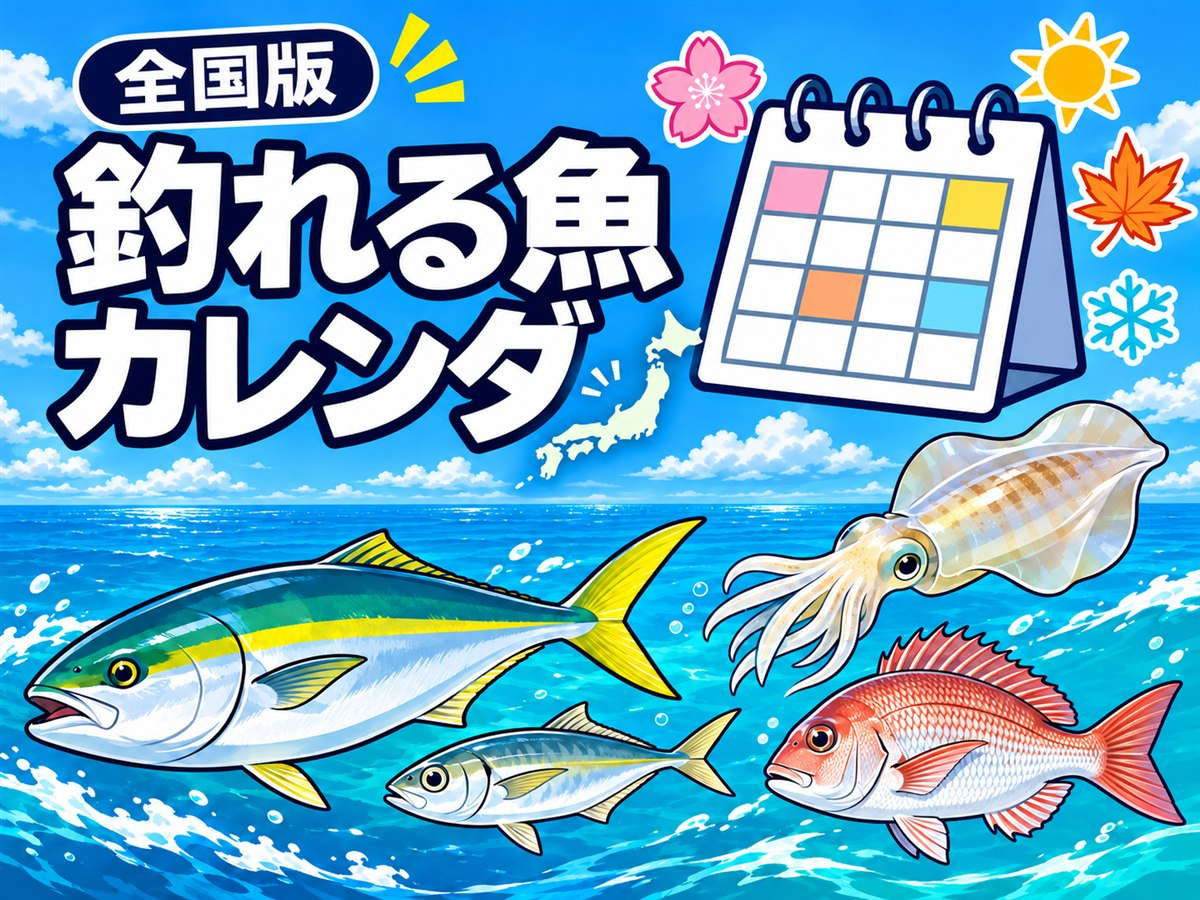
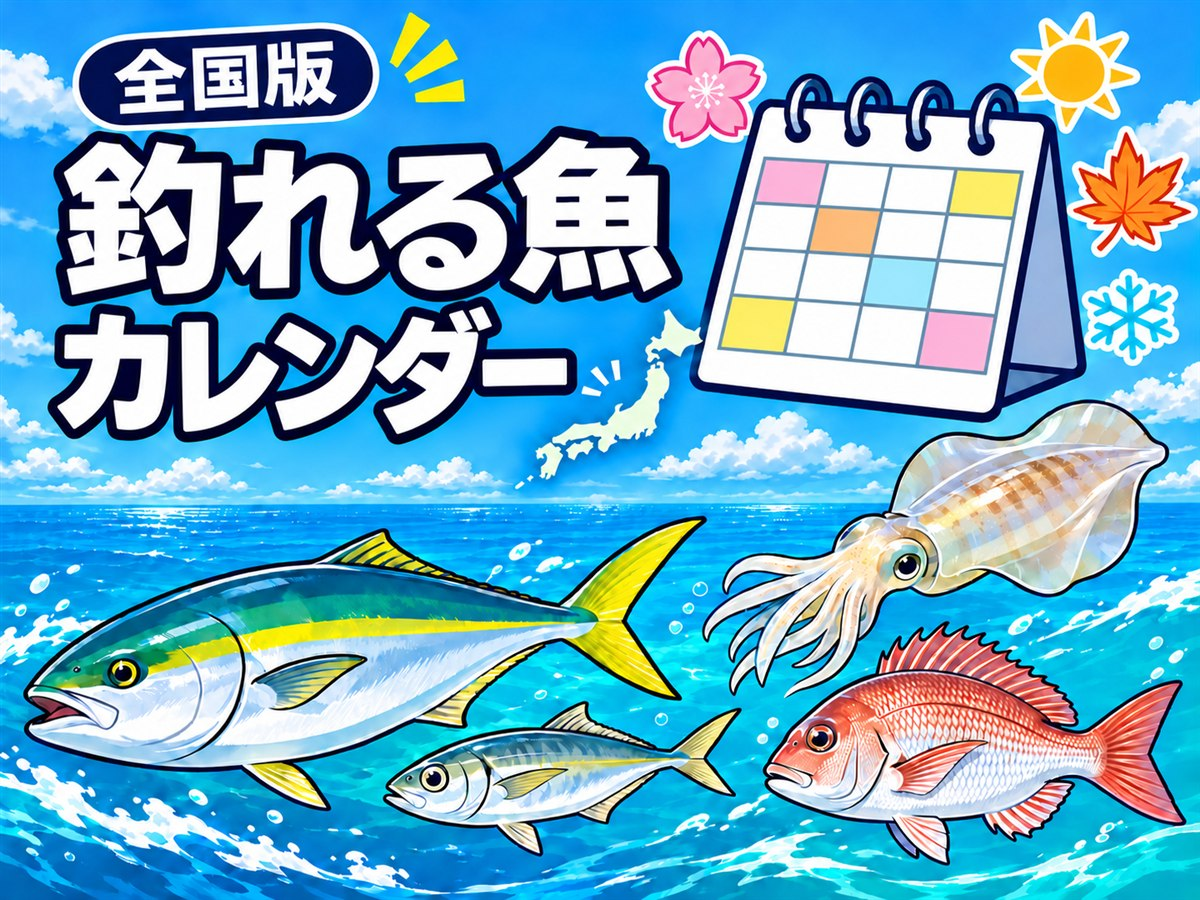
ランカーサイズの記事にJGFA日本記録（重さ）を追加、リリースサイズの記事にサムネイル、全国版カレンダーのサムネイルを差し替え

diff --git a/article/lunker-size.html b/article/lunker-size.html
@@ -42,7 +42,7 @@
     "author": {"@type": "Person", "name": "こすけ", "url": "https://tsuri-boon.github.io/tsuri-boon.html"},
     "publisher": {"@type": "Organization", "name": "tsuri-boon", "logo": {"@type": "ImageObject", "url": "https://tsuri-boon.github.io/image/tsuriboon_favicon.png"}},
     "datePublished": "2026-11-08",
-    "dateModified": "2026-11-08",
+    "dateModified": "2026-11-09",
     "articleSection": "釣りガイド",
     "keywords": ["ランカーサイズ", "ランカー", "尺メバル", "座布団ヒラメ", "年無し", "キロアップ", "尺アジ", "ドラゴン", "最大サイズ", "出世魚"]
   }
@@ -93,7 +93,7 @@
 
 <main class="article-main">
   <!-- パンくず start --><nav class="breadcrumb" aria-label="パンくずリスト"><ol><li><a href="../index.html">トップ</a></li><li><a href="../sitemap.html">記事一覧</a></li><li aria-current="page">魚ごとのランカーサイズの目安まとめ</li></ol></nav><!-- パンくず end -->
-  <!-- 更新日 start --><div class="article-meta"><div class="pr-note">※当サイトはアフィリエイト広告を利用しています</div><p class="article-date">更新日：2026年11月8日</p></div><!-- 更新日 end -->
+  <!-- 更新日 start --><div class="article-meta"><div class="pr-note">※当サイトはアフィリエイト広告を利用しています</div><p class="article-date">更新日：2026年11月9日</p></div><!-- 更新日 end -->
 
   <article class="lure-article">
     <h1>魚ごとのランカーサイズの目安まとめ<br>尺メバル・座布団ヒラメ・年無しチヌは何cmから？</h1>
@@ -123,13 +123,14 @@
       全国の一般的な目安です。呼び名やサイズの基準は、地域や釣り人によって少しずつ違います。表は横にスクロールでき、魚の名前を押すとその魚の解説に移動します。
     </p>
     <div style="overflow-x:auto;margin:1em 0;">
-    <table style="min-width:640px;width:100%;border-collapse:collapse;font-size:0.82em;">
+    <table style="min-width:760px;width:100%;border-collapse:collapse;font-size:0.82em;">
       <thead>
         <tr style="background:#1a4a7a;color:#fff;">
           <th style="padding:8px;border:1px solid #ccd;position:sticky;left:0;background:#1a4a7a;">魚</th>
           <th style="padding:8px;border:1px solid #ccd;">よく釣れるサイズ</th>
           <th style="padding:8px;border:1px solid #ccd;">大物の呼び名とサイズ</th>
           <th style="padding:8px;border:1px solid #ccd;">最大サイズの目安</th>
+          <th style="padding:8px;border:1px solid #ccd;">JGFA日本記録（重さ）</th>
         </tr>
       </thead>
       <tbody>
@@ -138,88 +139,105 @@
           <td style="padding:8px;border:1px solid #ccd;">40〜60cm</td>
           <td style="padding:8px;border:1px solid #ccd;"><strong>ランカー：80cm以上</strong></td>
           <td style="padding:8px;border:1px solid #ccd;">1m超</td>
+          <td style="padding:8px;border:1px solid #ccd;">13.14kg（2006年・大分県堅田川）</td>
         </tr>
         <tr style="background:#f5f8ff;">
           <td style="padding:8px;border:1px solid #ccd;font-weight:bold;white-space:nowrap;position:sticky;left:0;background:#f5f8ff;"><a href="#aomono">ブリ（青物）</a></td>
           <td style="padding:8px;border:1px solid #ccd;">40〜70cm</td>
           <td style="padding:8px;border:1px solid #ccd;"><strong>ブリ：80cm以上（関西ではメジロの次）</strong></td>
           <td style="padding:8px;border:1px solid #ccd;">1m超</td>
+          <td style="padding:8px;border:1px solid #ccd;">22.10kg（2005年・三重県石鏡沖）</td>
         </tr>
         <tr>
           <td style="padding:8px;border:1px solid #ccd;font-weight:bold;white-space:nowrap;position:sticky;left:0;background:#fff;"><a href="#sawara">サワラ</a></td>
           <td style="padding:8px;border:1px solid #ccd;">50〜80cm</td>
           <td style="padding:8px;border:1px solid #ccd;"><strong>メーターサワラ：1m以上</strong></td>
           <td style="padding:8px;border:1px solid #ccd;">1m超</td>
+          <td style="padding:8px;border:1px solid #ccd;">10.57kg（2015年・長崎県五島列島）</td>
         </tr>
         <tr style="background:#f5f8ff;">
           <td style="padding:8px;border:1px solid #ccd;font-weight:bold;white-space:nowrap;position:sticky;left:0;background:#f5f8ff;"><a href="#tachiuo">タチウオ</a></td>
           <td style="padding:8px;border:1px solid #ccd;">指3本（幅約3cm）</td>
           <td style="padding:8px;border:1px solid #ccd;"><strong>ドラゴン：指5本以上</strong></td>
           <td style="padding:8px;border:1px solid #ccd;">1.5m前後</td>
+          <td style="padding:8px;border:1px solid #ccd;">5.13kg（2020年・鹿児島県鹿屋高須沖）</td>
         </tr>
         <tr>
           <td style="padding:8px;border:1px solid #ccd;font-weight:bold;white-space:nowrap;position:sticky;left:0;background:#fff;"><a href="#aori">アオリイカ</a></td>
           <td style="padding:8px;border:1px solid #ccd;">秋：200〜500g</td>
           <td style="padding:8px;border:1px solid #ccd;"><strong>キロアップ：1kg以上</strong></td>
           <td style="padding:8px;border:1px solid #ccd;">3kg超</td>
+          <td style="padding:8px;border:1px solid #ccd;">登録なし</td>
         </tr>
         <tr style="background:#f5f8ff;">
           <td style="padding:8px;border:1px solid #ccd;font-weight:bold;white-space:nowrap;position:sticky;left:0;background:#f5f8ff;"><a href="#hirame">ヒラメ</a></td>
           <td style="padding:8px;border:1px solid #ccd;">40〜60cm</td>
           <td style="padding:8px;border:1px solid #ccd;"><strong>座布団ヒラメ：70cm以上</strong></td>
           <td style="padding:8px;border:1px solid #ccd;">1m前後</td>
+          <td style="padding:8px;border:1px solid #ccd;">14.50kg（2008年・島根県隠岐郡西ノ島町）</td>
         </tr>
         <tr>
           <td style="padding:8px;border:1px solid #ccd;font-weight:bold;white-space:nowrap;position:sticky;left:0;background:#fff;"><a href="#magochi">マゴチ</a></td>
           <td style="padding:8px;border:1px solid #ccd;">40〜50cm</td>
           <td style="padding:8px;border:1px solid #ccd;"><strong>ランカー：60cm以上</strong></td>
           <td style="padding:8px;border:1px solid #ccd;">70cm超</td>
+          <td style="padding:8px;border:1px solid #ccd;">2.50kg（2009年・大分県大野川）</td>
         </tr>
         <tr style="background:#f5f8ff;">
           <td style="padding:8px;border:1px solid #ccd;font-weight:bold;white-space:nowrap;position:sticky;left:0;background:#f5f8ff;"><a href="#chinu">チヌ（クロダイ）</a></td>
           <td style="padding:8px;border:1px solid #ccd;">30〜45cm</td>
           <td style="padding:8px;border:1px solid #ccd;"><strong>年無し：50cm以上</strong></td>
           <td style="padding:8px;border:1px solid #ccd;">60cm超</td>
+          <td style="padding:8px;border:1px solid #ccd;">4.25kg（2010年・大阪府大阪湾南港南）</td>
         </tr>
         <tr>
           <td style="padding:8px;border:1px solid #ccd;font-weight:bold;white-space:nowrap;position:sticky;left:0;background:#fff;"><a href="#aji">アジ</a></td>
           <td style="padding:8px;border:1px solid #ccd;">15〜25cm</td>
           <td style="padding:8px;border:1px solid #ccd;"><strong>尺アジ：30cm以上（ギガアジ：40cm以上）</strong></td>
           <td style="padding:8px;border:1px solid #ccd;">50cm前後</td>
+          <td style="padding:8px;border:1px solid #ccd;">1.19kg（2010年・三重県古和浦沖）</td>
         </tr>
         <tr style="background:#f5f8ff;">
           <td style="padding:8px;border:1px solid #ccd;font-weight:bold;white-space:nowrap;position:sticky;left:0;background:#f5f8ff;"><a href="#mebaru">メバル</a></td>
           <td style="padding:8px;border:1px solid #ccd;">15〜20cm</td>
           <td style="padding:8px;border:1px solid #ccd;"><strong>尺メバル：30cm以上</strong></td>
           <td style="padding:8px;border:1px solid #ccd;">30cm台</td>
+          <td style="padding:8px;border:1px solid #ccd;">アカメバル1.12kg／シロメバル0.95kg／クロメバル0.80kg</td>
         </tr>
         <tr>
           <td style="padding:8px;border:1px solid #ccd;font-weight:bold;white-space:nowrap;position:sticky;left:0;background:#fff;"><a href="#gashira">ガシラ（カサゴ）</a></td>
           <td style="padding:8px;border:1px solid #ccd;">15〜20cm</td>
           <td style="padding:8px;border:1px solid #ccd;"><strong>大型：25cm以上</strong></td>
           <td style="padding:8px;border:1px solid #ccd;">30cm台</td>
+          <td style="padding:8px;border:1px solid #ccd;">0.77kg（2024年・長崎県五島列島防波堤）</td>
         </tr>
         <tr style="background:#f5f8ff;">
           <td style="padding:8px;border:1px solid #ccd;font-weight:bold;white-space:nowrap;position:sticky;left:0;background:#f5f8ff;"><a href="#akou">アコウ（キジハタ）</a></td>
           <td style="padding:8px;border:1px solid #ccd;">25〜35cm</td>
           <td style="padding:8px;border:1px solid #ccd;"><strong>大型：40cm以上</strong></td>
           <td style="padding:8px;border:1px solid #ccd;">60cm前後</td>
+          <td style="padding:8px;border:1px solid #ccd;">3.58kg（2020年・大分県佐賀ノ関沖）</td>
         </tr>
         <tr>
           <td style="padding:8px;border:1px solid #ccd;font-weight:bold;white-space:nowrap;position:sticky;left:0;background:#fff;"><a href="#tako">マダコ</a></td>
           <td style="padding:8px;border:1px solid #ccd;">300g〜1kg</td>
           <td style="padding:8px;border:1px solid #ccd;"><strong>大ダコ：2kg以上</strong></td>
           <td style="padding:8px;border:1px solid #ccd;">3kg超</td>
+          <td style="padding:8px;border:1px solid #ccd;">登録なし</td>
         </tr>
         <tr style="background:#f5f8ff;">
           <td style="padding:8px;border:1px solid #ccd;font-weight:bold;white-space:nowrap;position:sticky;left:0;background:#f5f8ff;"><a href="#madai">マダイ</a></td>
           <td style="padding:8px;border:1px solid #ccd;">30〜50cm</td>
           <td style="padding:8px;border:1px solid #ccd;"><strong>大ダイ：70cm以上（80cm以上は特大）</strong></td>
           <td style="padding:8px;border:1px solid #ccd;">1m超</td>
+          <td style="padding:8px;border:1px solid #ccd;">11.60kg（2020年・茨城県鹿島灘）</td>
         </tr>
       </tbody>
     </table>
     </div>
+    <p style="font-size:0.85em;">
+      JGFA日本記録は、<a href="https://www.jgfa.or.jp/record/alltackle/" target="_blank" rel="noopener">ジャパンゲームフィッシュ協会（JGFA）のオールタックル日本記録</a>（2026年10月認定分まで）です。JGFAの記録は重さで認定されるため、長さではなく重さを載せています。アオリイカとマダコは登録がありません。メバルは種類ごとに記録が分かれています。
+    </p>
 
     <h2 id="fish">魚ごとのランカーサイズ</h2>
     <h3 id="seabass">シーバス（スズキ）</h3>
@@ -228,6 +246,7 @@
         <tr><td style="padding:8px;border:1px solid #ccd;font-weight:bold;white-space:nowrap;">よく釣れるサイズ</td><td style="padding:8px;border:1px solid #ccd;">40〜60cm</td></tr>
         <tr style="background:#f5f8ff;"><td style="padding:8px;border:1px solid #ccd;font-weight:bold;white-space:nowrap;">大物の呼び名とサイズ</td><td style="padding:8px;border:1px solid #ccd;"><strong>ランカー：80cm以上</strong></td></tr>
         <tr><td style="padding:8px;border:1px solid #ccd;font-weight:bold;white-space:nowrap;">最大サイズの目安</td><td style="padding:8px;border:1px solid #ccd;">1m超</td></tr>
+        <tr style="background:#f5f8ff;"><td style="padding:8px;border:1px solid #ccd;font-weight:bold;white-space:nowrap;">JGFA日本記録（重さ）</td><td style="padding:8px;border:1px solid #ccd;">13.14kg（2006年・大分県堅田川）</td></tr>
       </tbody>
     </table>
     <p>
@@ -241,6 +260,7 @@
         <tr><td style="padding:8px;border:1px solid #ccd;font-weight:bold;white-space:nowrap;">よく釣れるサイズ</td><td style="padding:8px;border:1px solid #ccd;">40〜70cm</td></tr>
         <tr style="background:#f5f8ff;"><td style="padding:8px;border:1px solid #ccd;font-weight:bold;white-space:nowrap;">大物の呼び名とサイズ</td><td style="padding:8px;border:1px solid #ccd;"><strong>ブリ：80cm以上（関西ではメジロの次）</strong></td></tr>
         <tr><td style="padding:8px;border:1px solid #ccd;font-weight:bold;white-space:nowrap;">最大サイズの目安</td><td style="padding:8px;border:1px solid #ccd;">1m超</td></tr>
+        <tr style="background:#f5f8ff;"><td style="padding:8px;border:1px solid #ccd;font-weight:bold;white-space:nowrap;">JGFA日本記録（重さ）</td><td style="padding:8px;border:1px solid #ccd;">22.10kg（2005年・三重県石鏡沖）</td></tr>
       </tbody>
     </table>
     <p>
@@ -254,6 +274,7 @@
         <tr><td style="padding:8px;border:1px solid #ccd;font-weight:bold;white-space:nowrap;">よく釣れるサイズ</td><td style="padding:8px;border:1px solid #ccd;">50〜80cm</td></tr>
         <tr style="background:#f5f8ff;"><td style="padding:8px;border:1px solid #ccd;font-weight:bold;white-space:nowrap;">大物の呼び名とサイズ</td><td style="padding:8px;border:1px solid #ccd;"><strong>メーターサワラ：1m以上</strong></td></tr>
         <tr><td style="padding:8px;border:1px solid #ccd;font-weight:bold;white-space:nowrap;">最大サイズの目安</td><td style="padding:8px;border:1px solid #ccd;">1m超</td></tr>
+        <tr style="background:#f5f8ff;"><td style="padding:8px;border:1px solid #ccd;font-weight:bold;white-space:nowrap;">JGFA日本記録（重さ）</td><td style="padding:8px;border:1px solid #ccd;">10.57kg（2015年・長崎県五島列島）</td></tr>
       </tbody>
     </table>
     <p>
@@ -267,6 +288,7 @@
         <tr><td style="padding:8px;border:1px solid #ccd;font-weight:bold;white-space:nowrap;">よく釣れるサイズ</td><td style="padding:8px;border:1px solid #ccd;">指3本（幅約3cm）</td></tr>
         <tr style="background:#f5f8ff;"><td style="padding:8px;border:1px solid #ccd;font-weight:bold;white-space:nowrap;">大物の呼び名とサイズ</td><td style="padding:8px;border:1px solid #ccd;"><strong>ドラゴン：指5本以上</strong></td></tr>
         <tr><td style="padding:8px;border:1px solid #ccd;font-weight:bold;white-space:nowrap;">最大サイズの目安</td><td style="padding:8px;border:1px solid #ccd;">1.5m前後</td></tr>
+        <tr style="background:#f5f8ff;"><td style="padding:8px;border:1px solid #ccd;font-weight:bold;white-space:nowrap;">JGFA日本記録（重さ）</td><td style="padding:8px;border:1px solid #ccd;">5.13kg（2020年・鹿児島県鹿屋高須沖）</td></tr>
       </tbody>
     </table>
     <p>
@@ -280,6 +302,7 @@
         <tr><td style="padding:8px;border:1px solid #ccd;font-weight:bold;white-space:nowrap;">よく釣れるサイズ</td><td style="padding:8px;border:1px solid #ccd;">秋：200〜500g</td></tr>
         <tr style="background:#f5f8ff;"><td style="padding:8px;border:1px solid #ccd;font-weight:bold;white-space:nowrap;">大物の呼び名とサイズ</td><td style="padding:8px;border:1px solid #ccd;"><strong>キロアップ：1kg以上</strong></td></tr>
         <tr><td style="padding:8px;border:1px solid #ccd;font-weight:bold;white-space:nowrap;">最大サイズの目安</td><td style="padding:8px;border:1px solid #ccd;">3kg超</td></tr>
+        <tr style="background:#f5f8ff;"><td style="padding:8px;border:1px solid #ccd;font-weight:bold;white-space:nowrap;">JGFA日本記録（重さ）</td><td style="padding:8px;border:1px solid #ccd;">登録なし</td></tr>
       </tbody>
     </table>
     <p>
@@ -293,6 +316,7 @@
         <tr><td style="padding:8px;border:1px solid #ccd;font-weight:bold;white-space:nowrap;">よく釣れるサイズ</td><td style="padding:8px;border:1px solid #ccd;">40〜60cm</td></tr>
         <tr style="background:#f5f8ff;"><td style="padding:8px;border:1px solid #ccd;font-weight:bold;white-space:nowrap;">大物の呼び名とサイズ</td><td style="padding:8px;border:1px solid #ccd;"><strong>座布団ヒラメ：70cm以上</strong></td></tr>
         <tr><td style="padding:8px;border:1px solid #ccd;font-weight:bold;white-space:nowrap;">最大サイズの目安</td><td style="padding:8px;border:1px solid #ccd;">1m前後</td></tr>
+        <tr style="background:#f5f8ff;"><td style="padding:8px;border:1px solid #ccd;font-weight:bold;white-space:nowrap;">JGFA日本記録（重さ）</td><td style="padding:8px;border:1px solid #ccd;">14.50kg（2008年・島根県隠岐郡西ノ島町）</td></tr>
       </tbody>
     </table>
     <p>
@@ -306,6 +330,7 @@
         <tr><td style="padding:8px;border:1px solid #ccd;font-weight:bold;white-space:nowrap;">よく釣れるサイズ</td><td style="padding:8px;border:1px solid #ccd;">40〜50cm</td></tr>
         <tr style="background:#f5f8ff;"><td style="padding:8px;border:1px solid #ccd;font-weight:bold;white-space:nowrap;">大物の呼び名とサイズ</td><td style="padding:8px;border:1px solid #ccd;"><strong>ランカー：60cm以上</strong></td></tr>
         <tr><td style="padding:8px;border:1px solid #ccd;font-weight:bold;white-space:nowrap;">最大サイズの目安</td><td style="padding:8px;border:1px solid #ccd;">70cm超</td></tr>
+        <tr style="background:#f5f8ff;"><td style="padding:8px;border:1px solid #ccd;font-weight:bold;white-space:nowrap;">JGFA日本記録（重さ）</td><td style="padding:8px;border:1px solid #ccd;">2.50kg（2009年・大分県大野川）</td></tr>
       </tbody>
     </table>
     <p>
@@ -319,6 +344,7 @@
         <tr><td style="padding:8px;border:1px solid #ccd;font-weight:bold;white-space:nowrap;">よく釣れるサイズ</td><td style="padding:8px;border:1px solid #ccd;">30〜45cm</td></tr>
         <tr style="background:#f5f8ff;"><td style="padding:8px;border:1px solid #ccd;font-weight:bold;white-space:nowrap;">大物の呼び名とサイズ</td><td style="padding:8px;border:1px solid #ccd;"><strong>年無し：50cm以上</strong></td></tr>
         <tr><td style="padding:8px;border:1px solid #ccd;font-weight:bold;white-space:nowrap;">最大サイズの目安</td><td style="padding:8px;border:1px solid #ccd;">60cm超</td></tr>
+        <tr style="background:#f5f8ff;"><td style="padding:8px;border:1px solid #ccd;font-weight:bold;white-space:nowrap;">JGFA日本記録（重さ）</td><td style="padding:8px;border:1px solid #ccd;">4.25kg（2010年・大阪府大阪湾南港南）</td></tr>
       </tbody>
     </table>
     <p>
@@ -332,6 +358,7 @@
         <tr><td style="padding:8px;border:1px solid #ccd;font-weight:bold;white-space:nowrap;">よく釣れるサイズ</td><td style="padding:8px;border:1px solid #ccd;">15〜25cm</td></tr>
         <tr style="background:#f5f8ff;"><td style="padding:8px;border:1px solid #ccd;font-weight:bold;white-space:nowrap;">大物の呼び名とサイズ</td><td style="padding:8px;border:1px solid #ccd;"><strong>尺アジ：30cm以上（ギガアジ：40cm以上）</strong></td></tr>
         <tr><td style="padding:8px;border:1px solid #ccd;font-weight:bold;white-space:nowrap;">最大サイズの目安</td><td style="padding:8px;border:1px solid #ccd;">50cm前後</td></tr>
+        <tr style="background:#f5f8ff;"><td style="padding:8px;border:1px solid #ccd;font-weight:bold;white-space:nowrap;">JGFA日本記録（重さ）</td><td style="padding:8px;border:1px solid #ccd;">1.19kg（2010年・三重県古和浦沖）</td></tr>
       </tbody>
     </table>
     <p>
@@ -345,6 +372,7 @@
         <tr><td style="padding:8px;border:1px solid #ccd;font-weight:bold;white-space:nowrap;">よく釣れるサイズ</td><td style="padding:8px;border:1px solid #ccd;">15〜20cm</td></tr>
         <tr style="background:#f5f8ff;"><td style="padding:8px;border:1px solid #ccd;font-weight:bold;white-space:nowrap;">大物の呼び名とサイズ</td><td style="padding:8px;border:1px solid #ccd;"><strong>尺メバル：30cm以上</strong></td></tr>
         <tr><td style="padding:8px;border:1px solid #ccd;font-weight:bold;white-space:nowrap;">最大サイズの目安</td><td style="padding:8px;border:1px solid #ccd;">30cm台</td></tr>
+        <tr style="background:#f5f8ff;"><td style="padding:8px;border:1px solid #ccd;font-weight:bold;white-space:nowrap;">JGFA日本記録（重さ）</td><td style="padding:8px;border:1px solid #ccd;">アカメバル1.12kg／シロメバル0.95kg／クロメバル0.80kg</td></tr>
       </tbody>
     </table>
     <p>
@@ -358,6 +386,7 @@
         <tr><td style="padding:8px;border:1px solid #ccd;font-weight:bold;white-space:nowrap;">よく釣れるサイズ</td><td style="padding:8px;border:1px solid #ccd;">15〜20cm</td></tr>
         <tr style="background:#f5f8ff;"><td style="padding:8px;border:1px solid #ccd;font-weight:bold;white-space:nowrap;">大物の呼び名とサイズ</td><td style="padding:8px;border:1px solid #ccd;"><strong>大型：25cm以上</strong></td></tr>
         <tr><td style="padding:8px;border:1px solid #ccd;font-weight:bold;white-space:nowrap;">最大サイズの目安</td><td style="padding:8px;border:1px solid #ccd;">30cm台</td></tr>
+        <tr style="background:#f5f8ff;"><td style="padding:8px;border:1px solid #ccd;font-weight:bold;white-space:nowrap;">JGFA日本記録（重さ）</td><td style="padding:8px;border:1px solid #ccd;">0.77kg（2024年・長崎県五島列島防波堤）</td></tr>
       </tbody>
     </table>
     <p>
@@ -371,6 +400,7 @@
         <tr><td style="padding:8px;border:1px solid #ccd;font-weight:bold;white-space:nowrap;">よく釣れるサイズ</td><td style="padding:8px;border:1px solid #ccd;">25〜35cm</td></tr>
         <tr style="background:#f5f8ff;"><td style="padding:8px;border:1px solid #ccd;font-weight:bold;white-space:nowrap;">大物の呼び名とサイズ</td><td style="padding:8px;border:1px solid #ccd;"><strong>大型：40cm以上</strong></td></tr>
         <tr><td style="padding:8px;border:1px solid #ccd;font-weight:bold;white-space:nowrap;">最大サイズの目安</td><td style="padding:8px;border:1px solid #ccd;">60cm前後</td></tr>
+        <tr style="background:#f5f8ff;"><td style="padding:8px;border:1px solid #ccd;font-weight:bold;white-space:nowrap;">JGFA日本記録（重さ）</td><td style="padding:8px;border:1px solid #ccd;">3.58kg（2020年・大分県佐賀ノ関沖）</td></tr>
       </tbody>
     </table>
     <p>
@@ -384,6 +414,7 @@
         <tr><td style="padding:8px;border:1px solid #ccd;font-weight:bold;white-space:nowrap;">よく釣れるサイズ</td><td style="padding:8px;border:1px solid #ccd;">300g〜1kg</td></tr>
         <tr style="background:#f5f8ff;"><td style="padding:8px;border:1px solid #ccd;font-weight:bold;white-space:nowrap;">大物の呼び名とサイズ</td><td style="padding:8px;border:1px solid #ccd;"><strong>大ダコ：2kg以上</strong></td></tr>
         <tr><td style="padding:8px;border:1px solid #ccd;font-weight:bold;white-space:nowrap;">最大サイズの目安</td><td style="padding:8px;border:1px solid #ccd;">3kg超</td></tr>
+        <tr style="background:#f5f8ff;"><td style="padding:8px;border:1px solid #ccd;font-weight:bold;white-space:nowrap;">JGFA日本記録（重さ）</td><td style="padding:8px;border:1px solid #ccd;">登録なし</td></tr>
       </tbody>
     </table>
     <p>
@@ -397,6 +428,7 @@
         <tr><td style="padding:8px;border:1px solid #ccd;font-weight:bold;white-space:nowrap;">よく釣れるサイズ</td><td style="padding:8px;border:1px solid #ccd;">30〜50cm</td></tr>
         <tr style="background:#f5f8ff;"><td style="padding:8px;border:1px solid #ccd;font-weight:bold;white-space:nowrap;">大物の呼び名とサイズ</td><td style="padding:8px;border:1px solid #ccd;"><strong>大ダイ：70cm以上（80cm以上は特大）</strong></td></tr>
         <tr><td style="padding:8px;border:1px solid #ccd;font-weight:bold;white-space:nowrap;">最大サイズの目安</td><td style="padding:8px;border:1px solid #ccd;">1m超</td></tr>
+        <tr style="background:#f5f8ff;"><td style="padding:8px;border:1px solid #ccd;font-weight:bold;white-space:nowrap;">JGFA日本記録（重さ）</td><td style="padding:8px;border:1px solid #ccd;">11.60kg（2020年・茨城県鹿島灘）</td></tr>
       </tbody>
     </table>
     <p>

diff --git a/article/kansai-release-size.html b/article/kansai-release-size.html
@@ -103,7 +103,7 @@
       リリースの基準には、罰則のある「法律の決まり」、漁業者からの「お願い」、決まりは無いけれど資源を守るための「目安」の3つがあります。この記事では、この3つを分けて紹介します。
     </p>
 
-    <!-- 画像：関西のリリースサイズと抱卵時期まとめ メイン画像（サムネイル）をここに挿入（<img src="../image/kansai-release-size.jpg" alt="関西のリリースサイズと抱卵時期まとめ" class="main-image">） -->
+    <img src="../image/kansai-release-size.jpg" alt="関西のリリースサイズと抱卵時期まとめ" class="main-image">
 
     <details id="toc">
       <summary>目次</summary>
@@ -533,65 +533,65 @@
   <div class="osusume">
     <p class="osusume-title">オススメ記事はこちら</p>
     <div class="osusume-cards">
-      <a href="blueblue.html" class="osusume-card">
-        <span class="osusume-thumb"><img src="../image/maker_blueblue.jpg" alt="BlueBlue（ブルーブルー）" loading="lazy"></span>
-        <span class="osusume-name">BlueBlue（ブルーブルー）</span>
-        <span class="osusume-copy">村岡昌憲が率いるシーバスルアーメーカーの特徴・本拠地・プロスタッフと人気ルアー（ブローウィン・ナレージ・スネコン）</span>
+      <a href="galva64s.html" class="osusume-card">
+        <span class="osusume-thumb"><img src="../image/galva64s.jpg" alt="ガルバ64S" loading="lazy"></span>
+        <span class="osusume-name">ガルバ64S</span>
+        <span class="osusume-copy">ダイワのシンキングペンシル</span>
       </a>
-      <a href="blooowin50s.html" class="osusume-card">
-        <span class="osusume-thumb"><img src="../image/blooowin50s.jpg" alt="ブローウィン50" loading="lazy"></span>
-        <span class="osusume-name">ブローウィン50</span>
+      <a href="aizer125f.html" class="osusume-card">
+        <span class="osusume-thumb"><img src="../image/aizer125f.jpg" alt="アイザー125F" loading="lazy"></span>
+        <span class="osusume-name">アイザー125F</span>
+        <span class="osusume-copy">ブルーブルーの先発シャローランナー</span>
+      </a>
+      <a href="teppanvibe.html" class="osusume-card">
+        <span class="osusume-thumb"><img src="../image/teppanvibe.jpg" alt="鉄PANバイブ" loading="lazy"></span>
+        <span class="osusume-name">鉄PANバイブ</span>
+        <span class="osusume-copy">ジャクソンの特攻系メタルバイブ</span>
+      </a>
+      <a href="domingo80.html" class="osusume-card">
+        <span class="osusume-thumb"><img src="../image/domingo80.png" alt="ドミンゴ80" loading="lazy"></span>
+        <span class="osusume-name">ドミンゴ80</span>
+        <span class="osusume-copy">imaのS字系シンキングペンシル</span>
+      </a>
+      <a href="hedisiteflex160.html" class="osusume-card">
+        <span class="osusume-thumb"><img src="../image/ヘディサイトフレックス160.jpg" alt="ヘディサイトフレックス160" loading="lazy"></span>
+        <span class="osusume-name">ヘディサイトフレックス160</span>
+        <span class="osusume-copy">Mi3のシンキングペンシル</span>
+      </a>
+      <a href="pzvn105f.html" class="osusume-card">
+        <span class="osusume-thumb"><img src="../image/pzvn105f.jpg" alt="ピーゼットブイエヌ105" loading="lazy"></span>
+        <span class="osusume-name">ピーゼットブイエヌ105</span>
+        <span class="osusume-copy">ポジドライブガレージのフローティングミノー</span>
+      </a>
+      <a href="genmaslim120s.html" class="osusume-card">
+        <span class="osusume-thumb"><img src="../image/genmaslim120s.jpg" alt="ゲンマスリム120S" loading="lazy"></span>
+        <span class="osusume-name">ゲンマスリム120S</span>
+        <span class="osusume-copy">メガバスのスリムシンキングペンシル</span>
+      </a>
+      <a href="hardcorer9.html" class="osusume-card">
+        <span class="osusume-thumb"><img src="../image/hardcorer9.jpg" alt="ハードコア R9" loading="lazy"></span>
+        <span class="osusume-name">ハードコア R9</span>
+        <span class="osusume-copy">デュエルのスリムミノー</span>
+      </a>
+      <a href="rabit109.html" class="osusume-card">
+        <span class="osusume-thumb"><img src="../image/rabit109.jpg" alt="ラビット109" loading="lazy"></span>
+        <span class="osusume-name">ラビット109</span>
+        <span class="osusume-copy">ニコデザインオフィスのシャローローリングミノー</span>
+      </a>
+      <a href="seek85hw.html" class="osusume-card">
+        <span class="osusume-thumb"><img src="../image/seek85hw.jpg" alt="ベイルーフ シーク85HW" loading="lazy"></span>
+        <span class="osusume-name">ベイルーフ シーク85HW</span>
+        <span class="osusume-copy">DUOのシンキングペンシル</span>
+      </a>
+      <a href="nabarone150f.html" class="osusume-card">
+        <span class="osusume-thumb"><img src="../image/nabarone150f.png" alt="ナバロン150F" loading="lazy"></span>
+        <span class="osusume-name">ナバロン150F</span>
+        <span class="osusume-copy">アイマのフローティングミノー</span>
+      </a>
+      <a href="aizer125lillad.html" class="osusume-card">
+        <span class="osusume-thumb"><img src="../image/aizer125lillad.jpg" alt="アイザー125リラード" loading="lazy"></span>
+        <span class="osusume-name">アイザー125リラード</span>
         <span class="osusume-copy">ブルーブルーのスローシンキングミノー</span>
-      </a>
-      <a href="kumihon70s.html" class="osusume-card">
-        <span class="osusume-thumb"><img src="../image/kumihon70s.jpg" alt="クミホン70S" loading="lazy"></span>
-        <span class="osusume-name">クミホン70S</span>
-        <span class="osusume-copy">ブルーブルーのピン撃ちシャッド</span>
-      </a>
-      <a href="outstar120s.html" class="osusume-card">
-        <span class="osusume-thumb"><img src="../image/outstar120s.png" alt="アウトスター120S" loading="lazy"></span>
-        <span class="osusume-name">アウトスター120S</span>
-        <span class="osusume-copy">ブルーブルーのシンキングミノー</span>
-      </a>
-      <a href="blooowin125fslim.html" class="osusume-card">
-        <span class="osusume-thumb"><img src="../image/blooowin125fslim.jpg" alt="ブローウィン125Fスリム" loading="lazy"></span>
-        <span class="osusume-name">ブローウィン125Fスリム</span>
-        <span class="osusume-copy">ブルーブルーのフローティングミノー</span>
-      </a>
-      <a href="narage50.html" class="osusume-card">
-        <span class="osusume-thumb"><img src="../image/narage50.jpg" alt="ナレージ50" loading="lazy"></span>
-        <span class="osusume-name">ナレージ50</span>
-        <span class="osusume-copy">ブルーブルーのバイブレーション</span>
-      </a>
-      <a href="balbal99poweredition.html" class="osusume-card">
-        <span class="osusume-thumb"><img src="../image/balbal99poweredition.jpg" alt="バルバル99 パワーエディション" loading="lazy"></span>
-        <span class="osusume-name">バルバル99 パワーエディション</span>
-        <span class="osusume-copy">ブルーブルーのシーバスロッド</span>
-      </a>
-      <a href="dimor70.html" class="osusume-card">
-        <span class="osusume-thumb"><img src="../image/dimor70.jpg" alt="ディモル70" loading="lazy"></span>
-        <span class="osusume-name">ディモル70</span>
-        <span class="osusume-copy">レガーレのバイブレーション</span>
-      </a>
-      <a href="kosuke110f.html" class="osusume-card">
-        <span class="osusume-thumb"><img src="../image/kosuke110f.jpg" alt="コスケ110F" loading="lazy"></span>
-        <span class="osusume-name">コスケ110F</span>
-        <span class="osusume-copy">imaのフローティングミノー</span>
-      </a>
-      <a href="dover82s.html" class="osusume-card">
-        <span class="osusume-thumb"><img src="../image/dover82s.png" alt="ドーバー82S" loading="lazy"></span>
-        <span class="osusume-name">ドーバー82S</span>
-        <span class="osusume-copy">アピアの食わせごろシンキングミノー</span>
-      </a>
-      <a href="seabass-line.html" class="osusume-card">
-        <span class="osusume-thumb"><img src="../image/seabass-line.jpg" alt="シーバスにおすすめのラインセット" loading="lazy"></span>
-        <span class="osusume-name">シーバスにおすすめのラインセット</span>
-        <span class="osusume-copy">シーバスにおすすめのラインセット｜PEライン・ショックリーダーの選び方と組み合わせを解説</span>
-      </a>
-      <a href="gachipenriot.html" class="osusume-card">
-        <span class="osusume-thumb"><img src="../image/gachipenriot.jpg" alt="ガチペンライオット155" loading="lazy"></span>
-        <span class="osusume-name">ガチペンライオット155</span>
-        <span class="osusume-copy">ブルーブルーのビッグペンシル</span>
       </a>
     </div>
   </div>
@@ -620,6 +620,7 @@
     </div>
   </div>
   <!-- 便利ツール end -->
+
 
   <p>
     <a href="/lure-gatya.html" class="btn-recommend">本日のオススメルアーはこちら</a>

diff --git a/article/fishing-calendar-zenkoku.html b/article/fishing-calendar-zenkoku.html
@@ -606,7 +606,6 @@
   </div>
   <!-- 便利ツール end -->
 
-
   <p>
     <a href="/lure-gatya.html" class="btn-recommend">本日のオススメルアーはこちら</a>
   </p>
